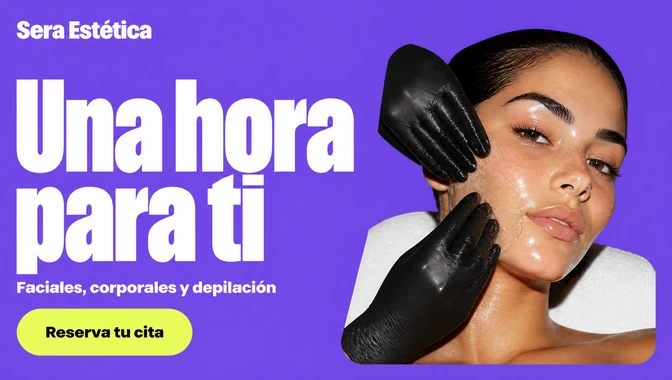
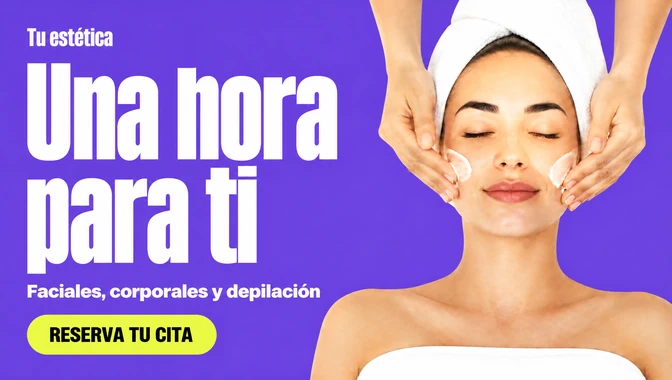
Página 2: el paso de estilo con Sereno, Cálido y Atrevido y portadas nuevas
Estilos de una palabra, misma foto en las tres portadas de cada sector
(recorte sobre blanco, fondo con textura, recorte sobre color), nombre
de ejemplo "Tu salón", alt cortos y miniatura más ancha en el teléfono.

diff --git a/docs/esteticistas/index.html b/docs/esteticistas/index.html
@@ -149,19 +149,19 @@
           <div class="tramo__cuerpo">
           <div class="estilos">
             <label class="estilo">
-              <input type="radio" name="estilo" value="elegante y minimalista" />
-              <img src="../img/estilos/estetica-elegante-672.webp" width="672" height="380" loading="lazy" decoding="async" alt="Portada de muestra en estilo elegante y minimalista: fondo crema con mucho espacio, el titular Una hora para ti en letra fina de revista, un botón con borde dorado y una clienta tumbada con los ojos cerrados y una toalla en la cabeza mientras unas manos con guantes blancos le aplican un tratamiento facial." />
-              <span class="estilo__nombre">Elegante y minimalista<svg class="estilo__visto" viewBox="0 0 24 24" aria-hidden="true" focusable="false"><circle class="visto__aro" cx="12" cy="12" r="11" /><circle class="visto__trazo" cx="12" cy="12" r="11" transform="rotate(-90 12 12)" /><path d="M7 12.5l3.5 3.5L17 8.5" /></svg></span>
+              <input type="radio" name="estilo" value="sereno" />
+              <img src="../img/estilos/estetica-sereno-672.webp" width="672" height="380" loading="lazy" decoding="async" alt="Muestra del estilo sereno para un centro de estética." />
+              <span class="estilo__nombre">Sereno<svg class="estilo__visto" viewBox="0 0 24 24" aria-hidden="true" focusable="false"><circle class="visto__aro" cx="12" cy="12" r="11" /><circle class="visto__trazo" cx="12" cy="12" r="11" transform="rotate(-90 12 12)" /><path d="M7 12.5l3.5 3.5L17 8.5" /></svg></span>
             </label>
             <label class="estilo">
-              <input type="radio" name="estilo" value="cálido y natural" />
-              <img src="../img/estilos/estetica-natural-672.webp" width="672" height="380" loading="lazy" decoding="async" alt="Portada de muestra en estilo cálido y natural: fondo crema con una forma redondeada en rosa empolvado, letra redonda en marrón, botón terracota y una clienta tumbada sonriendo con los ojos cerrados mientras unas manos le masajean las sienes." />
-              <span class="estilo__nombre">Cálido y natural<svg class="estilo__visto" viewBox="0 0 24 24" aria-hidden="true" focusable="false"><circle class="visto__aro" cx="12" cy="12" r="11" /><circle class="visto__trazo" cx="12" cy="12" r="11" transform="rotate(-90 12 12)" /><path d="M7 12.5l3.5 3.5L17 8.5" /></svg></span>
+              <input type="radio" name="estilo" value="cálido" />
+              <img src="../img/estilos/estetica-calido-672.webp" width="672" height="380" loading="lazy" decoding="async" alt="Muestra del estilo cálido para un centro de estética." />
+              <span class="estilo__nombre">Cálido<svg class="estilo__visto" viewBox="0 0 24 24" aria-hidden="true" focusable="false"><circle class="visto__aro" cx="12" cy="12" r="11" /><circle class="visto__trazo" cx="12" cy="12" r="11" transform="rotate(-90 12 12)" /><path d="M7 12.5l3.5 3.5L17 8.5" /></svg></span>
             </label>
             <label class="estilo">
-              <input type="radio" name="estilo" value="moderno y atrevido" />
-              <img src="../img/estilos/estetica-atrevido-672.webp" width="672" height="380" loading="lazy" decoding="async" alt="Portada de muestra en estilo moderno y atrevido: fondo lila intenso, el titular Una hora para ti en letra blanca enorme, botón amarillo lima y una chica mirando a cámara mientras unas manos con guantes negros le aplican una mascarilla brillante en la mejilla." />
-              <span class="estilo__nombre">Moderno y atrevido<svg class="estilo__visto" viewBox="0 0 24 24" aria-hidden="true" focusable="false"><circle class="visto__aro" cx="12" cy="12" r="11" /><circle class="visto__trazo" cx="12" cy="12" r="11" transform="rotate(-90 12 12)" /><path d="M7 12.5l3.5 3.5L17 8.5" /></svg></span>
+              <input type="radio" name="estilo" value="atrevido" />
+              <img src="../img/estilos/estetica-atrevido-672.webp" width="672" height="380" loading="lazy" decoding="async" alt="Muestra del estilo atrevido para un centro de estética." />
+              <span class="estilo__nombre">Atrevido<svg class="estilo__visto" viewBox="0 0 24 24" aria-hidden="true" focusable="false"><circle class="visto__aro" cx="12" cy="12" r="11" /><circle class="visto__trazo" cx="12" cy="12" r="11" transform="rotate(-90 12 12)" /><path d="M7 12.5l3.5 3.5L17 8.5" /></svg></span>
             </label>
           </div>
           <div class="tramo__nav">

diff --git a/docs/peluquerias/index.html b/docs/peluquerias/index.html
@@ -149,19 +149,19 @@
           <div class="tramo__cuerpo">
           <div class="estilos">
             <label class="estilo">
-              <input type="radio" name="estilo" value="elegante y minimalista" />
-              <img src="../img/estilos/peluqueria-elegante-672.webp" width="672" height="380" loading="lazy" decoding="async" alt="Portada de muestra en estilo elegante y minimalista: fondo crema con mucho espacio, el titular Un corte que habla de ti en letra fina de revista, un botón con borde dorado y una mujer de espaldas con una melena corta castaña, lisa y brillante." />
-              <span class="estilo__nombre">Elegante y minimalista<svg class="estilo__visto" viewBox="0 0 24 24" aria-hidden="true" focusable="false"><circle class="visto__aro" cx="12" cy="12" r="11" /><circle class="visto__trazo" cx="12" cy="12" r="11" transform="rotate(-90 12 12)" /><path d="M7 12.5l3.5 3.5L17 8.5" /></svg></span>
+              <input type="radio" name="estilo" value="sereno" />
+              <img src="../img/estilos/peluqueria-sereno-672.webp" width="672" height="380" loading="lazy" decoding="async" alt="Muestra del estilo sereno para una peluquería." />
+              <span class="estilo__nombre">Sereno<svg class="estilo__visto" viewBox="0 0 24 24" aria-hidden="true" focusable="false"><circle class="visto__aro" cx="12" cy="12" r="11" /><circle class="visto__trazo" cx="12" cy="12" r="11" transform="rotate(-90 12 12)" /><path d="M7 12.5l3.5 3.5L17 8.5" /></svg></span>
             </label>
             <label class="estilo">
-              <input type="radio" name="estilo" value="cálido y natural" />
-              <img src="../img/estilos/peluqueria-natural-672.webp" width="672" height="380" loading="lazy" decoding="async" alt="Portada de muestra en estilo cálido y natural: fondo crema con una forma redondeada en rosa empolvado, letra redonda en marrón, botón terracota y una mujer sonriendo con los ojos cerrados y el pelo ondulado al aire." />
-              <span class="estilo__nombre">Cálido y natural<svg class="estilo__visto" viewBox="0 0 24 24" aria-hidden="true" focusable="false"><circle class="visto__aro" cx="12" cy="12" r="11" /><circle class="visto__trazo" cx="12" cy="12" r="11" transform="rotate(-90 12 12)" /><path d="M7 12.5l3.5 3.5L17 8.5" /></svg></span>
+              <input type="radio" name="estilo" value="cálido" />
+              <img src="../img/estilos/peluqueria-calido-672.webp" width="672" height="380" loading="lazy" decoding="async" alt="Muestra del estilo cálido para una peluquería." />
+              <span class="estilo__nombre">Cálido<svg class="estilo__visto" viewBox="0 0 24 24" aria-hidden="true" focusable="false"><circle class="visto__aro" cx="12" cy="12" r="11" /><circle class="visto__trazo" cx="12" cy="12" r="11" transform="rotate(-90 12 12)" /><path d="M7 12.5l3.5 3.5L17 8.5" /></svg></span>
             </label>
             <label class="estilo">
-              <input type="radio" name="estilo" value="moderno y atrevido" />
-              <img src="../img/estilos/peluqueria-atrevido-672.webp" width="672" height="380" loading="lazy" decoding="async" alt="Portada de muestra en estilo moderno y atrevido: fondo azul eléctrico, el titular Un corte que habla de ti en letra blanca enorme, botón amarillo lima y una chica con una melena rizada cobriza mirando a cámara." />
-              <span class="estilo__nombre">Moderno y atrevido<svg class="estilo__visto" viewBox="0 0 24 24" aria-hidden="true" focusable="false"><circle class="visto__aro" cx="12" cy="12" r="11" /><circle class="visto__trazo" cx="12" cy="12" r="11" transform="rotate(-90 12 12)" /><path d="M7 12.5l3.5 3.5L17 8.5" /></svg></span>
+              <input type="radio" name="estilo" value="atrevido" />
+              <img src="../img/estilos/peluqueria-atrevido-672.webp" width="672" height="380" loading="lazy" decoding="async" alt="Muestra del estilo atrevido para una peluquería." />
+              <span class="estilo__nombre">Atrevido<svg class="estilo__visto" viewBox="0 0 24 24" aria-hidden="true" focusable="false"><circle class="visto__aro" cx="12" cy="12" r="11" /><circle class="visto__trazo" cx="12" cy="12" r="11" transform="rotate(-90 12 12)" /><path d="M7 12.5l3.5 3.5L17 8.5" /></svg></span>
             </label>
           </div>
           <div class="tramo__nav">

diff --git a/docs/para/patricia-estrada/index.html b/docs/para/patricia-estrada/index.html
@@ -150,19 +150,19 @@
           <div class="tramo__cuerpo">
           <div class="estilos">
             <label class="estilo">
-              <input type="radio" name="estilo" value="elegante y minimalista" />
-              <img src="../../img/estilos/unas-elegante-672.webp" width="672" height="380" loading="lazy" decoding="async" alt="Portada de muestra en estilo elegante y minimalista: fondo crema con mucho espacio, el titular Uñas que hablan de ti en letra fina de revista, un botón con borde dorado y una mano con las uñas en nude claro apoyada sobre lino beige." />
-              <span class="estilo__nombre">Elegante y minimalista<svg class="estilo__visto" viewBox="0 0 24 24" aria-hidden="true" focusable="false"><circle class="visto__aro" cx="12" cy="12" r="11" /><circle class="visto__trazo" cx="12" cy="12" r="11" transform="rotate(-90 12 12)" /><path d="M7 12.5l3.5 3.5L17 8.5" /></svg></span>
+              <input type="radio" name="estilo" value="sereno" />
+              <img src="../../img/estilos/unas-sereno-672.webp" width="672" height="380" loading="lazy" decoding="async" alt="Muestra del estilo sereno para un salón de uñas." />
+              <span class="estilo__nombre">Sereno<svg class="estilo__visto" viewBox="0 0 24 24" aria-hidden="true" focusable="false"><circle class="visto__aro" cx="12" cy="12" r="11" /><circle class="visto__trazo" cx="12" cy="12" r="11" transform="rotate(-90 12 12)" /><path d="M7 12.5l3.5 3.5L17 8.5" /></svg></span>
             </label>
             <label class="estilo">
-              <input type="radio" name="estilo" value="cálido y natural" />
-              <img src="../../img/estilos/unas-natural-672.webp" width="672" height="380" loading="lazy" decoding="async" alt="Portada de muestra en estilo cálido y natural: fondo crema con una forma redondeada en rosa empolvado, letra redonda en marrón, botón terracota y una mano con las uñas en rosa tostado sobre una tela de lino arena." />
-              <span class="estilo__nombre">Cálido y natural<svg class="estilo__visto" viewBox="0 0 24 24" aria-hidden="true" focusable="false"><circle class="visto__aro" cx="12" cy="12" r="11" /><circle class="visto__trazo" cx="12" cy="12" r="11" transform="rotate(-90 12 12)" /><path d="M7 12.5l3.5 3.5L17 8.5" /></svg></span>
+              <input type="radio" name="estilo" value="cálido" />
+              <img src="../../img/estilos/unas-calido-672.webp" width="672" height="380" loading="lazy" decoding="async" alt="Muestra del estilo cálido para un salón de uñas." />
+              <span class="estilo__nombre">Cálido<svg class="estilo__visto" viewBox="0 0 24 24" aria-hidden="true" focusable="false"><circle class="visto__aro" cx="12" cy="12" r="11" /><circle class="visto__trazo" cx="12" cy="12" r="11" transform="rotate(-90 12 12)" /><path d="M7 12.5l3.5 3.5L17 8.5" /></svg></span>
             </label>
             <label class="estilo">
-              <input type="radio" name="estilo" value="moderno y atrevido" />
-              <img src="../../img/estilos/unas-atrevido-672.webp" width="672" height="380" loading="lazy" decoding="async" alt="Portada de muestra en estilo moderno y atrevido: fondo lila intenso, el titular Uñas que hablan de ti en letra blanca enorme, botón amarillo lima y una mano con las uñas largas en fucsia brillante." />
-              <span class="estilo__nombre">Moderno y atrevido<svg class="estilo__visto" viewBox="0 0 24 24" aria-hidden="true" focusable="false"><circle class="visto__aro" cx="12" cy="12" r="11" /><circle class="visto__trazo" cx="12" cy="12" r="11" transform="rotate(-90 12 12)" /><path d="M7 12.5l3.5 3.5L17 8.5" /></svg></span>
+              <input type="radio" name="estilo" value="atrevido" />
+              <img src="../../img/estilos/unas-atrevido-672.webp" width="672" height="380" loading="lazy" decoding="async" alt="Muestra del estilo atrevido para un salón de uñas." />
+              <span class="estilo__nombre">Atrevido<svg class="estilo__visto" viewBox="0 0 24 24" aria-hidden="true" focusable="false"><circle class="visto__aro" cx="12" cy="12" r="11" /><circle class="visto__trazo" cx="12" cy="12" r="11" transform="rotate(-90 12 12)" /><path d="M7 12.5l3.5 3.5L17 8.5" /></svg></span>
             </label>
           </div>
           <div class="tramo__nav">

diff --git a/docs/manicuras/index.html b/docs/manicuras/index.html
@@ -149,19 +149,19 @@
           <div class="tramo__cuerpo">
           <div class="estilos">
             <label class="estilo">
-              <input type="radio" name="estilo" value="elegante y minimalista" />
-              <img src="../img/estilos/unas-elegante-672.webp" width="672" height="380" loading="lazy" decoding="async" alt="Portada de muestra en estilo elegante y minimalista: fondo crema con mucho espacio, el titular Uñas que hablan de ti en letra fina de revista, un botón con borde dorado y una mano con las uñas en nude claro apoyada sobre lino beige." />
-              <span class="estilo__nombre">Elegante y minimalista<svg class="estilo__visto" viewBox="0 0 24 24" aria-hidden="true" focusable="false"><circle class="visto__aro" cx="12" cy="12" r="11" /><circle class="visto__trazo" cx="12" cy="12" r="11" transform="rotate(-90 12 12)" /><path d="M7 12.5l3.5 3.5L17 8.5" /></svg></span>
+              <input type="radio" name="estilo" value="sereno" />
+              <img src="../img/estilos/unas-sereno-672.webp" width="672" height="380" loading="lazy" decoding="async" alt="Muestra del estilo sereno para un salón de uñas." />
+              <span class="estilo__nombre">Sereno<svg class="estilo__visto" viewBox="0 0 24 24" aria-hidden="true" focusable="false"><circle class="visto__aro" cx="12" cy="12" r="11" /><circle class="visto__trazo" cx="12" cy="12" r="11" transform="rotate(-90 12 12)" /><path d="M7 12.5l3.5 3.5L17 8.5" /></svg></span>
             </label>
             <label class="estilo">
-              <input type="radio" name="estilo" value="cálido y natural" />
-              <img src="../img/estilos/unas-natural-672.webp" width="672" height="380" loading="lazy" decoding="async" alt="Portada de muestra en estilo cálido y natural: fondo crema con una forma redondeada en rosa empolvado, letra redonda en marrón, botón terracota y una mano con las uñas en rosa tostado sobre una tela de lino arena." />
-              <span class="estilo__nombre">Cálido y natural<svg class="estilo__visto" viewBox="0 0 24 24" aria-hidden="true" focusable="false"><circle class="visto__aro" cx="12" cy="12" r="11" /><circle class="visto__trazo" cx="12" cy="12" r="11" transform="rotate(-90 12 12)" /><path d="M7 12.5l3.5 3.5L17 8.5" /></svg></span>
+              <input type="radio" name="estilo" value="cálido" />
+              <img src="../img/estilos/unas-calido-672.webp" width="672" height="380" loading="lazy" decoding="async" alt="Muestra del estilo cálido para un salón de uñas." />
+              <span class="estilo__nombre">Cálido<svg class="estilo__visto" viewBox="0 0 24 24" aria-hidden="true" focusable="false"><circle class="visto__aro" cx="12" cy="12" r="11" /><circle class="visto__trazo" cx="12" cy="12" r="11" transform="rotate(-90 12 12)" /><path d="M7 12.5l3.5 3.5L17 8.5" /></svg></span>
             </label>
             <label class="estilo">
-              <input type="radio" name="estilo" value="moderno y atrevido" />
-              <img src="../img/estilos/unas-atrevido-672.webp" width="672" height="380" loading="lazy" decoding="async" alt="Portada de muestra en estilo moderno y atrevido: fondo lila intenso, el titular Uñas que hablan de ti en letra blanca enorme, botón amarillo lima y una mano con las uñas largas en fucsia brillante." />
-              <span class="estilo__nombre">Moderno y atrevido<svg class="estilo__visto" viewBox="0 0 24 24" aria-hidden="true" focusable="false"><circle class="visto__aro" cx="12" cy="12" r="11" /><circle class="visto__trazo" cx="12" cy="12" r="11" transform="rotate(-90 12 12)" /><path d="M7 12.5l3.5 3.5L17 8.5" /></svg></span>
+              <input type="radio" name="estilo" value="atrevido" />
+              <img src="../img/estilos/unas-atrevido-672.webp" width="672" height="380" loading="lazy" decoding="async" alt="Muestra del estilo atrevido para un salón de uñas." />
+              <span class="estilo__nombre">Atrevido<svg class="estilo__visto" viewBox="0 0 24 24" aria-hidden="true" focusable="false"><circle class="visto__aro" cx="12" cy="12" r="11" /><circle class="visto__trazo" cx="12" cy="12" r="11" transform="rotate(-90 12 12)" /><path d="M7 12.5l3.5 3.5L17 8.5" /></svg></span>
             </label>
           </div>
           <div class="tramo__nav">

diff --git a/docs/styles.css b/docs/styles.css
@@ -3100,7 +3100,7 @@ html:not(.no-js) .enlace .preparar-seccion {
 .estilo {
   position: relative;
   display: grid;
-  grid-template-columns: minmax(0, 46%) minmax(0, 1fr);
+  grid-template-columns: minmax(0, 58%) minmax(0, 1fr);
   align-items: center;
   gap: var(--sp-sm);
   padding: var(--sp-2xs);
